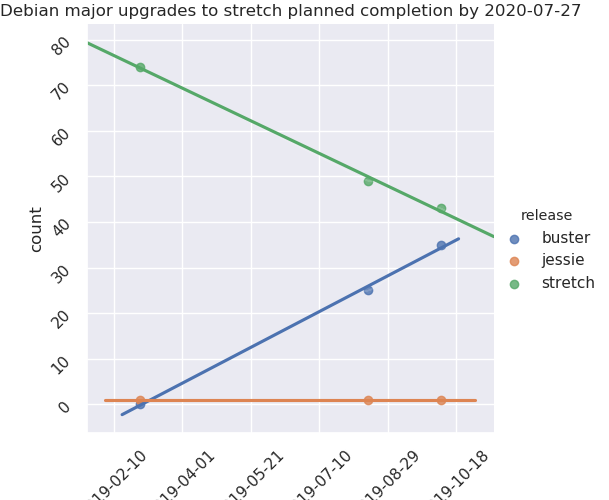
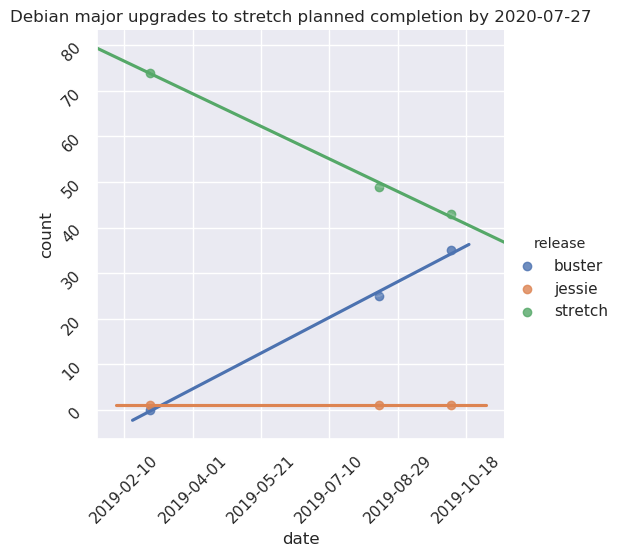
fix bounding box
text was overflowing before this

diff --git a/tsa/howto/upgrades/predict-os.py b/tsa/howto/upgrades/predict-os.py
@@ -216,7 +216,7 @@ def plot_records(records, guessed_date, args):
         plt.show()
     else:
         _, ext = os.path.splitext(args.output.name)
-        plt.savefig(args.output, format=ext[1:])
+        plt.savefig(args.output, format=ext[1:], bbox_inches='tight')
 
 
 def prepare_records(records):
